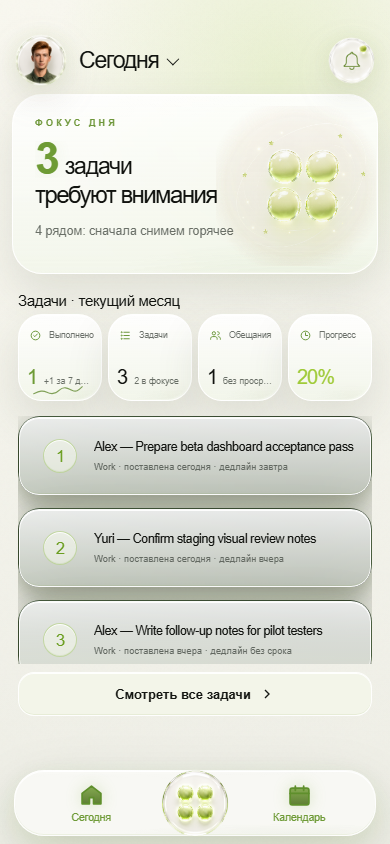
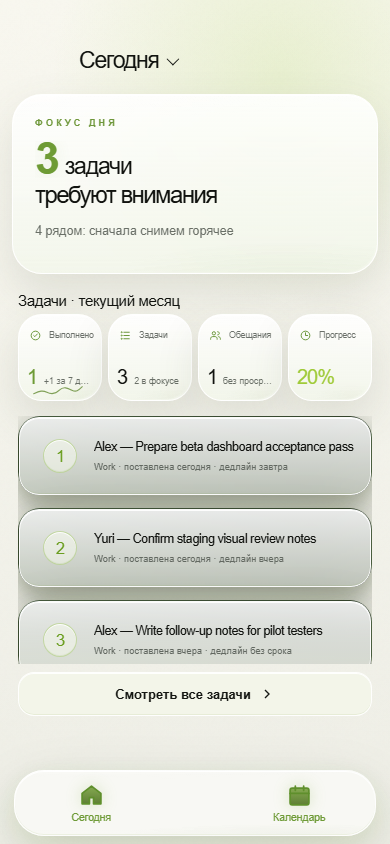
fix(stats): clarify active task empty state

diff --git a/index.html b/index.html
@@ -3885,7 +3885,9 @@ async function loadStats(outgoing = [], done = [], tasks = []){
   safeText('stats-promises-top-person', promiseTopPerson ? (promiseTopPerson.name + ' · ' + promiseTopPerson.count) : '—');
 
   if(activeOutgoing.length===0){
-    const emptyActiveText = localTasks.length ? 'Сейчас нет активных задач' : 'Пока задач нет — добавьте первую';
+    const emptyActiveText = activeIncoming.length
+      ? ('Активных задач без обещаний нет. ' + activeIncoming.length + ' ' + (activeIncoming.length===1?'обещание показано':'обещаний показано') + ' выше.')
+      : (localTasks.length ? 'Сейчас нет активных задач' : 'Пока задач нет — добавьте первую');
     list.innerHTML='<div class="active-task-row"><span class="active-task-name" style="color:var(--muted)">' + emptyActiveText + '</span></div>';
   }else{
     list.innerHTML = activeOutgoing.slice(0,4).map(t=>{

diff --git a/pm/bugs.md b/pm/bugs.md
@@ -87,7 +87,7 @@ Priority: P0 / P1 / P2 / P3
 | BUG-2026-07-25-015 | AI chat: команда удалить задачи была выполнена как перенос всех активных задач в выполненные | Critical | P0 | NEED-CLAUDE | Codex + Claude review | AI-INTENT-DELETE-001 | Autonomous runner did not change runtime: this is P0 destructive/bulk task behavior, and source evidence points to AI chat prompt/tool contract around `index.html:6881` plus action execution around `index.html:6784-6785`. Needs Claude-reviewed narrow fix plan so delete intent cannot be mapped to `complete`; see `pm/outbox/REPORT-BRIEF-2026-07-25-68-ai-delete-intent-safety.md`. |
 | BUG-2026-07-25-016 | Telegram group bot: бот не отвечает и не фиксирует задачи в групповом чате | High | P1 | NEED-YURI | Codex + Claude/Yuri | BOT-GROUP-001 | No runtime change from app automation: `FILE_MAP_BOT.md` says `mrktggod/4e-bot` is separate/not connected, local `4e-bot-repo` is non-canon per AGENTS, and live Telegram group actions are explicitly prohibited for automation. Yuri must provide canonical bot repo access/current worktree or live group evidence. |
 | BUG-2026-07-25-017 | Focus of Day: home и popup показывают несогласованные счётчики задач | Medium | P1 | Ready for QA / home001 green | Codex | HOME-FOCUS-COUNTERS-001 | Fixed in app: focus card and popup derive visible focus count from `getFocusTaskSummary()`. `npm run smoke:home001` passed with focus card count `3`, popup rows `3`, popup task metric `3`, and subtitle `2 горят, 3 задачи в фокусе`; old ambiguous `4 выделил главное` copy is guarded against. |
-| BUG-2026-07-25-018 | Statistics: экран говорит `Нет активных задач`, хотя home показывает активные задачи | High | P1 | Triaged / queued for night | Codex | NEW-002 / HOME-001 | На рабочем аккаунте Миши home показывает 3 задачи, но экран статистики в периоде `Месяц задач` показывает `Нет активных задач`. Ожидание: statistics использует актуальные задачи/тот же источник данных или честно объясняет фильтр периода; не показывать empty state при наличии активных задач. |
+| BUG-2026-07-25-018 | Statistics: экран говорит `Нет активных задач`, хотя home показывает активные задачи | High | P1 | Ready for QA / home001 green | Codex | STATS-ACTIVE-001 | Fixed in app: when statistics has no outgoing active tasks but has incoming active promises, the active-task block now clarifies `Активных задач без обещаний нет. 1 обещание показано выше.` instead of generic `Нет активных задач`. `smoke:home001` verifies seeded active tasks are listed and incoming-only active data gets the clarified empty state. |
 | BUG-2026-07-25-019 | Calendar: снизу сразу видны задачи, но они не кликаются | High | P1 | Triaged / queued for night | Codex | CALENDAR-UI-001 / NEW-002 | В разделе календаря задачи видны сразу снизу, но строки/карточки не открываются по нажатию. Ожидание: календарные задачи должны быть либо явно интерактивными и открывать detail, либо не выглядеть как кликабельный список; hit area не должен перекрываться слоями календаря/nav. |
 | BUG-2026-07-25-020 | Task detail glass layout откатился от согласованного вида: meta cards перекрывают title | High | P1 | Triaged / queued for night | Codex | DESIGN-GLASS-001 / BACK-044 | В текущем task detail светлого glass-режима title пересекается с правыми meta cards, layout выглядит как старый сломанный вариант. Эталонный вид был согласован ранее: сверху отдельные панели статуса и участников, затем широкая hero-карточка с actions/date/priority/status в одну строку, без перекрытий и с читаемым title/description. Ожидание: привести task detail к эталонному glass layout со второго скрина, не ломая mobile safe-area и existing task-detail smokes. |
 | BUG-2026-07-25-001 | Staging mobile: внутри приложения виден фейковый статусбар `9:41`, сеть и батарея | Medium | P1 | Triaged | Codex | DESIGN-GLASS-001 | Ручная проверка Алексея 2026-07-25 на `https://4-ai-staging.pages.dev/`: сверху уже есть реальный статусбар телефона, а внутри app дополнительно показан дизайнерский/mock statusbar `9:41` + иконки сети/заряда. Ожидание: в live web/TMA не показывать mock statusbar; если он нужен для design-preview, держать только за preview/demo flag. Скрины: чат Codex Image #1/#6. |

diff --git a/FILE_MAP_UI.md b/FILE_MAP_UI.md
@@ -8,8 +8,8 @@
 | --- | --- | --- |
 | 1-55 | Head scripts and stylesheet | Telegram SDK, VK bridge, marked, `styles.min.css` |
 | 56-1896 | HTML screens and overlays | Все экраны приложения и overlays; focus panel includes daily summary block; AI chat composer includes voice entrypoint |
-| 1898-8758 | JavaScript | Auth, задачи, AI-чат, календарь, профиль, privacy, lock, chats, VK adapter |
-| 8769-8934 | Biometric consent patch | Screen `biometric-consent`, CSS, localStorage consent gate for voice input |
+| 1898-8760 | JavaScript | Auth, задачи, AI-чат, календарь, профиль, privacy, lock, chats, VK adapter |
+| 8771-8936 | Biometric consent patch | Screen `biometric-consent`, CSS, localStorage consent gate for voice input |
 
 ### HTML screens
 
@@ -52,7 +52,7 @@
 | 1664 | `task-move` | Перенос задачи |
 | 1681 | `task-done` | Завершение задачи |
 | 1695 | `voice` | Голосовой режим |
-| 8769 | `biometric-consent` | Согласие на обработку голоса по 152-ФЗ |
+| 8771 | `biometric-consent` | Согласие на обработку голоса по 152-ФЗ |
 
 ### JavaScript ranges
 
@@ -61,14 +61,14 @@
 | 1898-2087 | Config, tokens, helpers | `getToken`, `authHeaders`, `withTimeout`, `readJsonSafe`, Premium denial helpers, Telegram/VK launch helpers |
 | 2088-2498 | App init, auth, profile | `initApp`, `doRegister`, `submitLoginOnEnter`, `doLogin`, `loginWithTelegram`, `doLogout`, `renderExtendedProfile`, `saveExtendedProfile` |
 | 2499-3191 | Payments and subscription | `DEFAULT_TARIFF_CONFIG`, `loadTariffConfig`, `getPlanConfig`, `renderSubscriptionFeatures`, `renderPricingCards`, `openPayment`, `startPayment`, `launchWidget`, `updateSubscriptionScreen` |
-| 3192-5057 | Tasks, home, focus panel daily summary, cards, calendar stats | `loadTasks`, `getTaskUiId`, `getTaskCreatedTimestamp`, `formatTaskCreatedMeta`, `getFocusTaskSummary`, `updateHomeDashboardList`, `submitQuickAdd`, `renderFocusPanelSummary`, `renderTasksForMonth`, `loadStats`, `renderTaskCard`, `markDoneKV` |
-| 5058-6164 | Task detail and editing | `loadTaskAdvice`, `openTask`, `completeTask`, `saveTaskEdits`, `setReminderOnWorker` |
-| 6165-6253 | Message generation, navigation, notifications | `openWrite`, `aiCall`, `generateMessage`, `copyMsg`, `editMsg`, `showScreen`, `openNotifications` |
-| 6254-7076 | AI chat and task creation | `loadAskHistoryRemote`, `normalizeTaskTitle`, `fallbackTaskFromText`, `createTaskFromChat`, `sendAsk`, `showToast` |
-| 7077-7317 | Calendar and voice | `renderCalendar`, `selectCalDay`, `openVoice`, `bindAskVoiceEntrypoint`, `sendVoiceMessage`; voice uses Premium and biometric consent gates |
-| 7318-8715 | Subscreens, settings, app lock, password reset, chats and messages | `_showSubScreenBase`, `openPrivacyPolicy`, `bindPrivacyPolicyLinks`, `loadPrivacyCenter`, `loadNotificationSettings`, `savePassword`, `showLockScreen`, `openChats`, `loadChatsList`, `openConv`, `loadConvMessages`, `convSend`, `quickDoneTask` |
-| 8716-8758 | Task detail soft-glass helpers | `appendDetailHistoryMessage`, detail popover/status/checklist helpers |
-| 8769-8934 | Biometric consent JS | `biometricConsentRequired`, `revokeBiometricConsent`, checkbox enablement |
+| 3192-5059 | Tasks, home, focus panel daily summary, cards, calendar stats | `loadTasks`, `getTaskUiId`, `getTaskCreatedTimestamp`, `formatTaskCreatedMeta`, `getFocusTaskSummary`, `updateHomeDashboardList`, `submitQuickAdd`, `renderFocusPanelSummary`, `renderTasksForMonth`, `loadStats`, `renderTaskCard`, `markDoneKV` |
+| 5060-6166 | Task detail and editing | `loadTaskAdvice`, `openTask`, `completeTask`, `saveTaskEdits`, `setReminderOnWorker` |
+| 6167-6255 | Message generation, navigation, notifications | `openWrite`, `aiCall`, `generateMessage`, `copyMsg`, `editMsg`, `showScreen`, `openNotifications` |
+| 6256-7078 | AI chat and task creation | `loadAskHistoryRemote`, `normalizeTaskTitle`, `fallbackTaskFromText`, `createTaskFromChat`, `sendAsk`, `showToast` |
+| 7079-7319 | Calendar and voice | `renderCalendar`, `selectCalDay`, `openVoice`, `bindAskVoiceEntrypoint`, `sendVoiceMessage`; voice uses Premium and biometric consent gates |
+| 7320-8717 | Subscreens, settings, app lock, password reset, chats and messages | `_showSubScreenBase`, `openPrivacyPolicy`, `bindPrivacyPolicyLinks`, `loadPrivacyCenter`, `loadNotificationSettings`, `savePassword`, `showLockScreen`, `openChats`, `loadChatsList`, `openConv`, `loadConvMessages`, `convSend`, `quickDoneTask` |
+| 8718-8760 | Task detail soft-glass helpers | `appendDetailHistoryMessage`, detail popover/status/checklist helpers |
+| 8771-8936 | Biometric consent JS | `biometricConsentRequired`, `revokeBiometricConsent`, checkbox enablement |
 
 ## `vk.html` — VK Mini App
 

diff --git a/FILE_MAP.md b/FILE_MAP.md
@@ -20,7 +20,7 @@
 
 | Файл | Строк | Назначение | Как читать |
 | --- | ---: | --- | --- |
-| `index.html` | 8934 | Telegram Mini App: HTML-экраны, JS-логика; CSS подключён из `styles.min.css` | Через `FILE_MAP_UI.md`, только нужный диапазон |
+| `index.html` | 8936 | Telegram Mini App: HTML-экраны, JS-логика; CSS подключён из `styles.min.css` | Через `FILE_MAP_UI.md`, только нужный диапазон |
 | `vk.html` | 1921 | VK Mini App: отдельная версия без Telegram SDK | Через `FILE_MAP_UI.md`, только нужный диапазон |
 | `privacy.html` | 240 | Политика конфиденциальности | Можно читать целиком при правовых правках |
 | `worker-static.js` | 187 | Лёгкий фронтовый Worker: раздаёт whitelist-сборку из Static Assets и маршрутизирует VK launch на `vk.html` без внешнего редиректа | Можно читать целиком; точка входа инфраструктуры INFRA-001 |
@@ -42,7 +42,7 @@
 | `scripts/check-ui-architecture.sh` | 78 | Guard против роста inline UI-долга в `index.html` | Запускать перед UI-коммитом |
 | `scripts/back-019-task-card-smoke.mjs` | 330 | Headless Chrome/CDP smoke for BACK-019 task cards on 390x844 viewport: overflow, 2-line title clamp, tap and swipe actions | Run with `npm run smoke:back019` before changing task-card renderer |
 | `scripts/back-055-notifications-smoke.mjs` | 340 | Headless Chrome/CDP smoke for BACK-055 notification action cards on 390x844 viewport: empty state, filters, unread badge, expand, snooze, go-to-task, done and write actions | Run with `npm run smoke:back055` before changing notification action-card renderer |
-| `scripts/home-001-dashboard-smoke.mjs` | 600 | Headless Chrome/CDP smoke for HOME-001 dashboard: top-3 rows, metrics, nav routes, focus card/popup counter consistency, dark/light screenshots, and 390/360/320 viewport edge geometry | Run with `npm run smoke:home001` before changing dashboard/home routing, focus counters, or visual shell |
+| `scripts/home-001-dashboard-smoke.mjs` | 613 | Headless Chrome/CDP smoke for HOME-001 dashboard: top-3 rows, metrics, nav routes, focus card/popup counter consistency, statistics active-task empty-state clarity, dark/light screenshots, and 390/360/320 viewport edge geometry | Run with `npm run smoke:home001` before changing dashboard/home routing, focus counters, statistics active-task copy, or visual shell |
 | `scripts/back-050-accessibility-smoke.mjs` | 349 | Headless Chrome/CDP smoke for BACK-050 accessibility baseline: auth labels/errors, toast status/alert live-region, dialog ARIA/focus/restore on 390x844 viewport | Run with `npm run smoke:back050` before changing auth accessibility, toast behavior, or quick-add/contact/focus dialogs |
 | `scripts/smart-007-memory-fixture-smoke.mjs` | 450 | Staging-only SMART-007 AI-memory fixture smoke with fresh synthetic account: saves safe facts, verifies `/ai/facts`, renders `#ai-memory-list`, delete-one and clear-all | Run with `npm run smoke:smart007` before promoting SMART-007 evidence beyond source-only |
 | `scripts/auth-avatar-login-diagnose.mjs` | 269 | Live staging Chrome/CDP diagnostic for auth wrong-password UI and profile avatar localStorage leak/persistence behavior on fresh accounts | Run with `npm run smoke:auth-avatar` before fixing auth field errors or profile avatar persistence |

diff --git a/pm/backlog.md b/pm/backlog.md
@@ -49,7 +49,7 @@
 | AI-INTENT-DELETE-001 | `BRIEF-2026-07-25-68-ai-delete-intent-safety` | AI Chat/Tasks/Safety | P0 | Codex + Claude if broad | NEED-CLAUDE | H0.5 | P0 destructive intent is not safe for autonomous DONE: current AI chat tool contract exposes `complete` actions but no narrow delete/refuse contract. Needs Claude-reviewed plan before runtime changes. |
 | BOT-GROUP-001 | `BRIEF-2026-07-25-69-telegram-group-bot-capture` | Bot/Telegram | P1 | Codex + Claude/Yuri | NEED-YURI | H0.5 | App checkout cannot safely fix bot group capture: `FILE_MAP_BOT.md` says bot repo is separate/not connected, AGENTS marks local `4e-bot-repo` as non-canon, and live Telegram actions are stop-pointed. Yuri must provide canonical bot worktree or live group evidence. |
 | HOME-FOCUS-COUNTERS-001 | `BRIEF-2026-07-25-70-focus-counters-consistency` | Home/UI/Data | P1 | Codex | Done | H0.5 | Home focus card and popup counters now use the same visible focus-task summary; `smoke:home001` asserts focus card count, popup rows, popup metric and subtitle all match. |
-| STATS-ACTIVE-001 | `BRIEF-2026-07-25-71-statistics-active-tasks-empty` | Statistics/UI/Data | P1 | Codex | NEW | H0.5 | Statistics does not show `Нет активных задач` when the same user has active tasks on home. |
+| STATS-ACTIVE-001 | `BRIEF-2026-07-25-71-statistics-active-tasks-empty` | Statistics/UI/Data | P1 | Codex | Done | H0.5 | Statistics active section no longer shows a misleading generic empty state when active incoming promises exist; `smoke:home001` covers seeded active tasks and incoming-only active data. |
 | CALENDAR-UI-001 | `BRIEF-2026-07-25-72-calendar-task-list-clickability` | Calendar/UI | P1 | Codex | NEW | H0.5 | Calendar bottom task list rows are clickable and open task detail, or are restyled so non-clickable content is not misleading. |
 | TASK-DETAIL-GLASS-001 | `BRIEF-2026-07-25-73-task-detail-glass-layout-restore` | Task Detail/UI | P1 | Codex | NEW | H0.5 | Task detail is restored to the agreed glass layout: separate status/participants panels, wide hero, no title/meta overlap. |
 | TASK-CHAT-ACTIONS-001 | `BRIEF-2026-07-25-74-task-chat-confirm-action` | Task Detail/AI Chat | P1 | Codex | NEW | H0.5 | Suggested-action `Confirm` button in Telegram Mini App task chat applies the proposed action or shows a clear failure state. |

diff --git a/pm/outbox/REPORT-BRIEF-2026-07-25-71-statistics-active-tasks-empty.md b/pm/outbox/REPORT-BRIEF-2026-07-25-71-statistics-active-tasks-empty.md
@@ -1,0 +1,49 @@
+# REPORT-BRIEF-2026-07-25-71-statistics-active-tasks-empty
+
+Status: DONE
+Branch: `feat/admin-tariff-api`
+Commit: this commit
+
+## Task
+
+Fix or clarify the statistics active-task empty state when home still shows active work.
+
+## Root Cause
+
+- `index.html:3861-3862`: statistics splits active work into outgoing active tasks and incoming promises.
+- `index.html:3888`: the active-task list rendered generic `Сейчас нет активных задач` whenever `activeOutgoing.length === 0`, even if `activeIncoming.length > 0` and home/focus still had active rows.
+- This made the period look empty for users whose current active work was represented as incoming promises.
+
+## Changed Files
+
+- `index.html`: active-task empty state now clarifies the filter when incoming promises exist, e.g. `Активных задач без обещаний нет. 1 обещание показано выше.`
+- `scripts/home-001-dashboard-smoke.mjs`: added statistics assertions for normal seeded active tasks and incoming-only active data.
+- `docs/tasks/assets/HOME-001-dashboard-smoke-2026-07-20-dark.png` and `...-light.png`: refreshed by smoke.
+- `FILE_MAP.md`, `FILE_MAP_UI.md`: updated line counts/ranges.
+- PM/team logs and this report.
+
+## Raw Evidence
+
+```text
+npm run smoke:home001
+ok: true
+metrics.statsActiveText: "Alex — Prepare beta dashboard acceptance pass..."
+metrics.statsIncomingOnlyText: "Активных задач без обещаний нет. 1 обещание показано выше."
+```
+
+```text
+Encoding ritual for index.html:
+Before: 112 matches for Войти|Задачи|Сегодня
+After: 112 matches for Войти|Задачи|Сегодня
+```
+
+## Scope Notes
+
+- No production deploy.
+- No merge into `main`.
+- No backend data migration.
+- No payment, entitlement, CAL, price, or secret work.
+
+## Tail
+
+NEEDS-REAL: staging/manual QA should confirm whether the product wants incoming promises duplicated into the active-task list later; this fix keeps the current split and removes the misleading empty state.

diff --git a/DEVELOPMENT_LOG.md b/DEVELOPMENT_LOG.md
@@ -1,5 +1,17 @@
 ## 2026-07-26
 
+### Statistics active-task empty state
+
+**What changed:** Statistics keeps the existing split between outgoing active tasks and incoming promises, but no longer shows generic `Нет активных задач` when active incoming promises exist. The copy now explains that active tasks without promises are empty and promises are shown above.
+
+**Encoding check:** `index.html` markers `Войти|Задачи|Сегодня` stayed `112 / 112`.
+
+**Test:** `npm run smoke:home001` passed; it now checks normal active stats and incoming-only active data.
+
+**Commit:** this commit
+
+## 2026-07-26
+
 ### Focus counters consistency
 
 **What changed:** Added a shared focus-task summary for the home focus card and focus popup. The focus card count, popup row count, popup task metric and popup subtitle now all use the visible focus list count; the ambiguous `4 выделил главное` copy was removed.

diff --git a/pm/team-sync.md b/pm/team-sync.md
@@ -1,5 +1,13 @@
 # Team Sync
 
+## 2026-07-26 - Codex - statistics empty state done
+
+- Branch: `feat/admin-tariff-api`.
+- Inbox: `BRIEF-2026-07-25-71-statistics-active-tasks-empty` moved to `DONE`.
+- Result: statistics no longer says generic `Нет активных задач` when active incoming promises exist; it clarifies that promises are shown above.
+- Evidence: `npm run smoke:home001` passed with seeded active tasks listed and incoming-only text `1 обещание показано выше`.
+- Scope: app/UI copy and smoke only; no backend migration, payment, entitlement, price, prod or `main` changes.
+
 ## 2026-07-26 - Codex - focus counters done
 
 - Branch: `feat/admin-tariff-api`.

diff --git a/shared/WORK_LOG.md b/shared/WORK_LOG.md
@@ -10602,3 +10602,13 @@
 **Next step:** Manual mobile/staging QA can confirm the live Russian copy reads clearly.
 
 ---
+
+### 2026-07-26 - Codex
+
+**Task:** BRIEF-2026-07-25-71 statistics active-task empty state
+**Result:** Statistics now clarifies incoming-only active data instead of saying generic `Нет активных задач`; `smoke:home001` covers both seeded active and incoming-only cases.
+**Commit:** this commit
+**Status:** DONE
+**Next step:** Product can later decide whether promises should also duplicate into the active list.
+
+---

diff --git a/pm/inbox/BRIEF-2026-07-25-71-statistics-active-tasks-empty.md b/pm/inbox/BRIEF-2026-07-25-71-statistics-active-tasks-empty.md
@@ -1,4 +1,4 @@
-status: NEW
+status: DONE
 
 # BRIEF-2026-07-25-71-statistics-active-tasks-empty
 
@@ -28,4 +28,3 @@ Fix statistics active-task data source/filter mismatch or clarify the period fil
 ## Report
 
 Write `pm/outbox/REPORT-BRIEF-2026-07-25-71-statistics-active-tasks-empty.md`.
-
